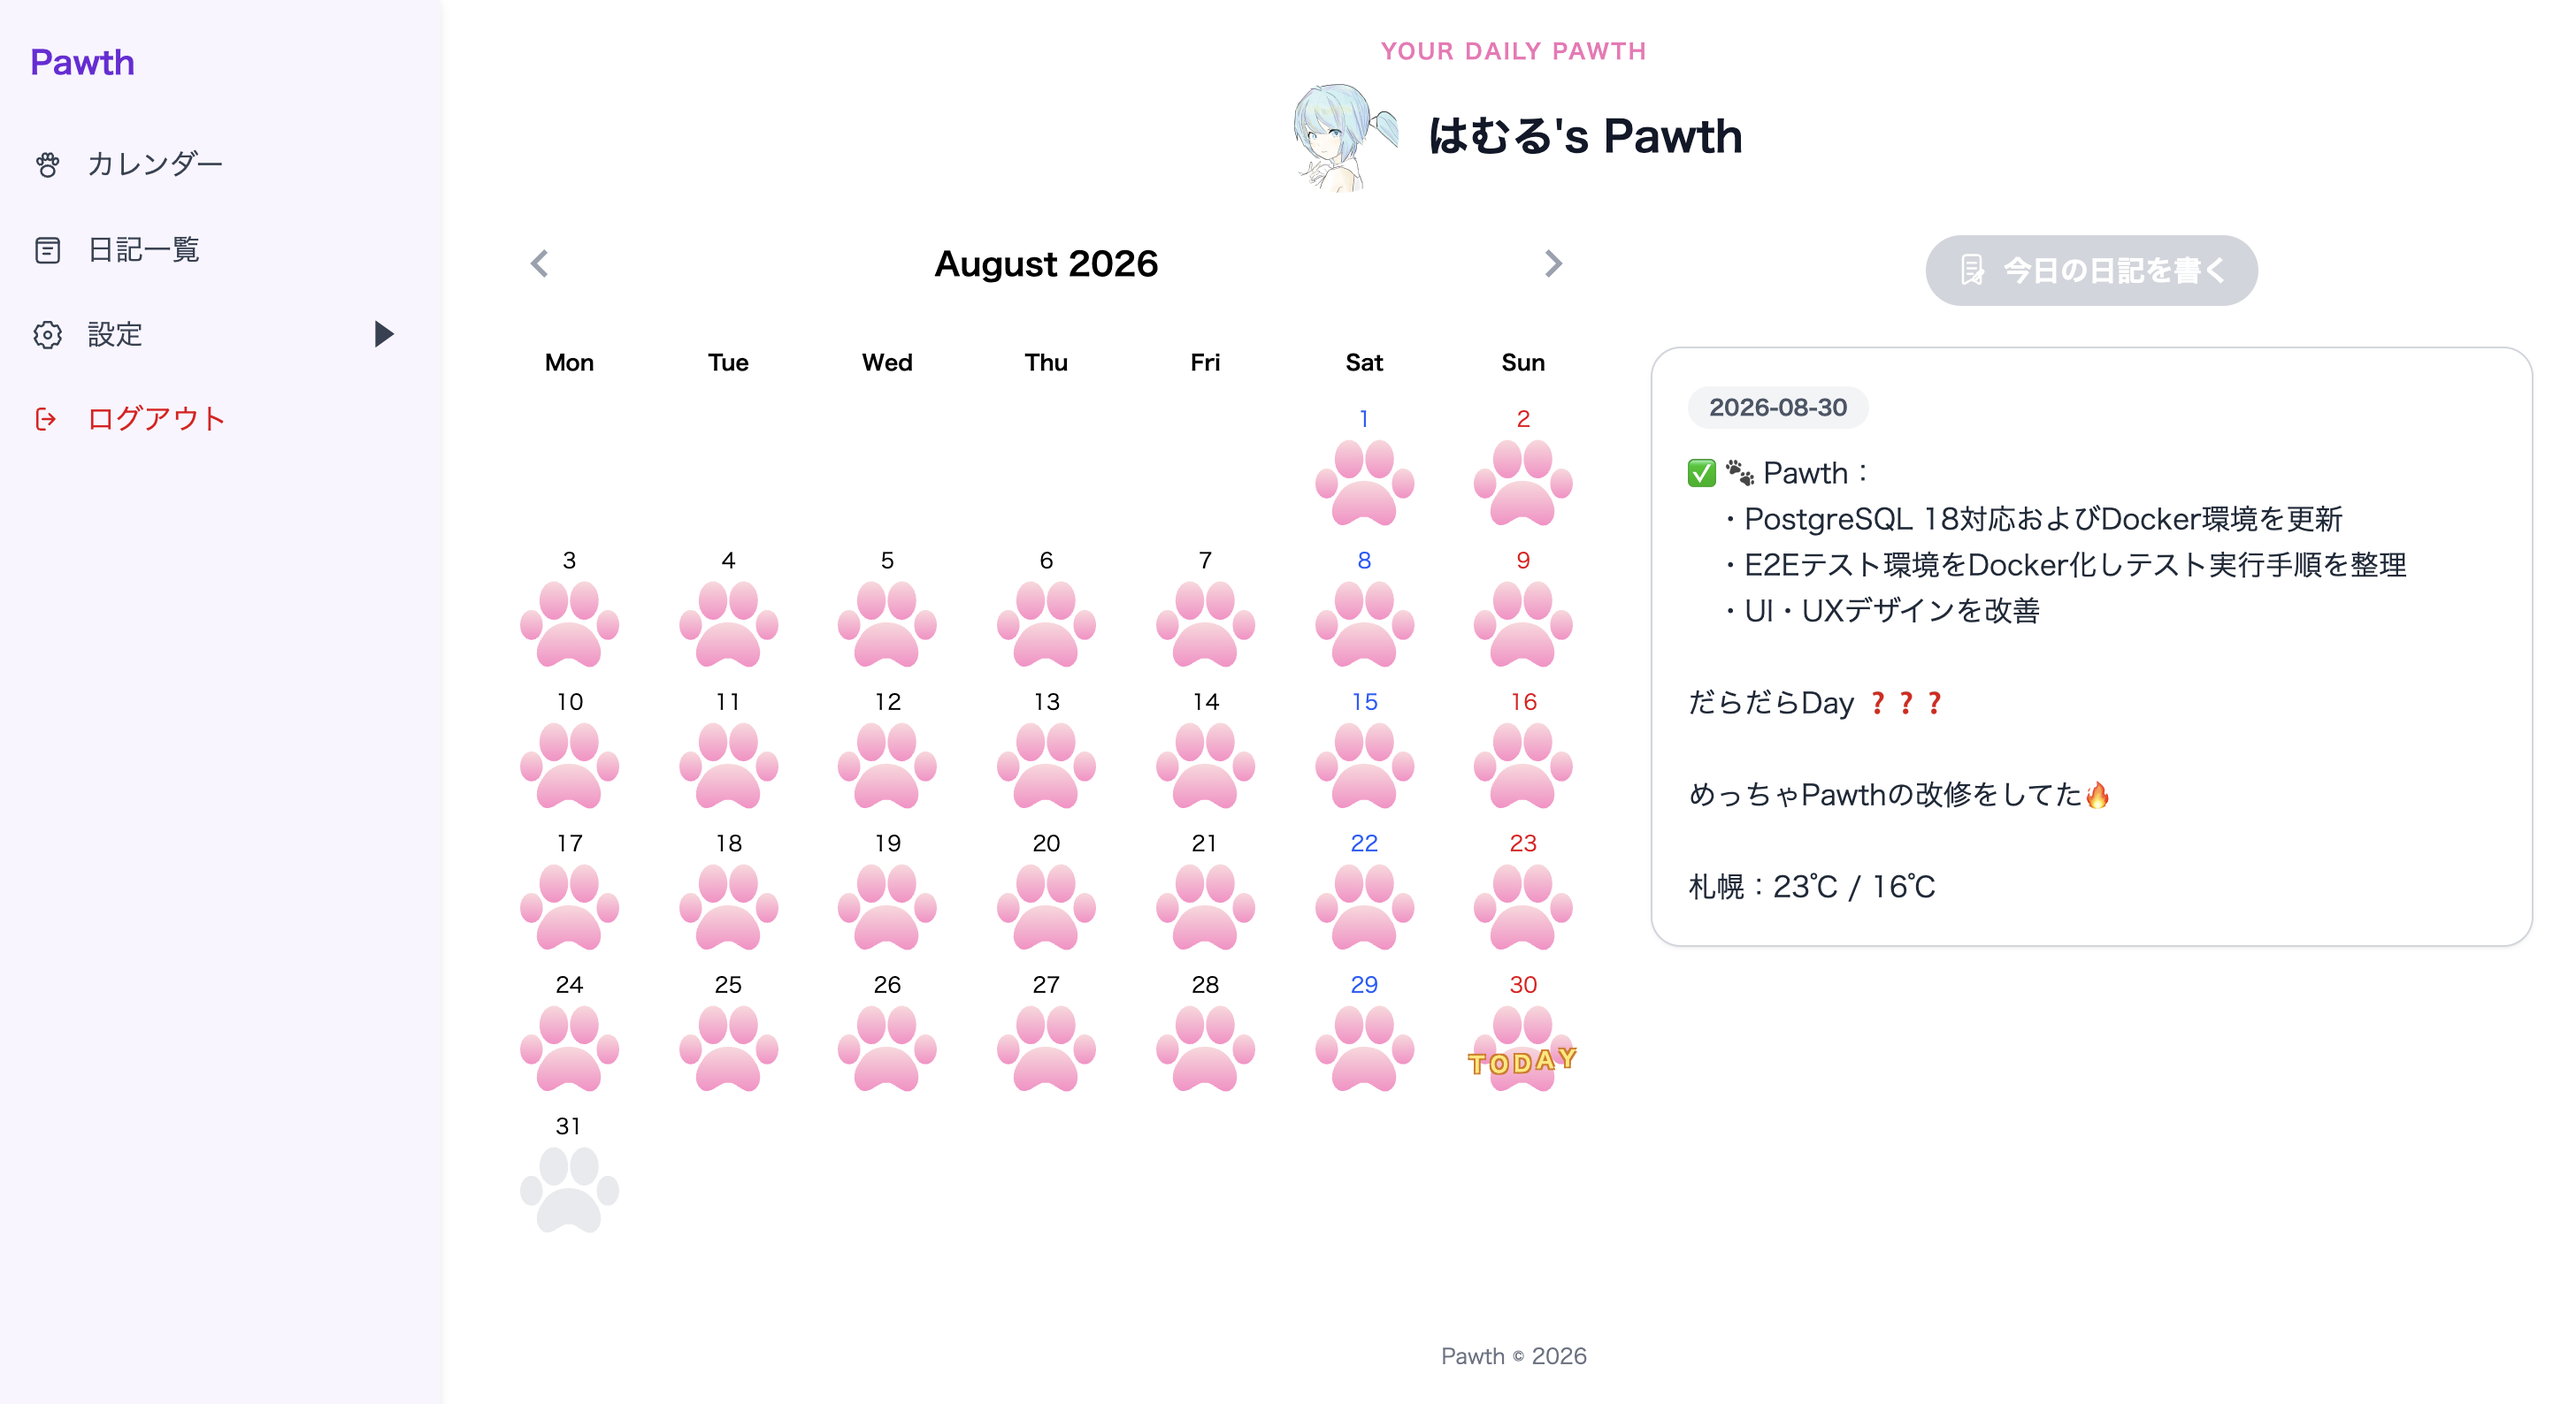
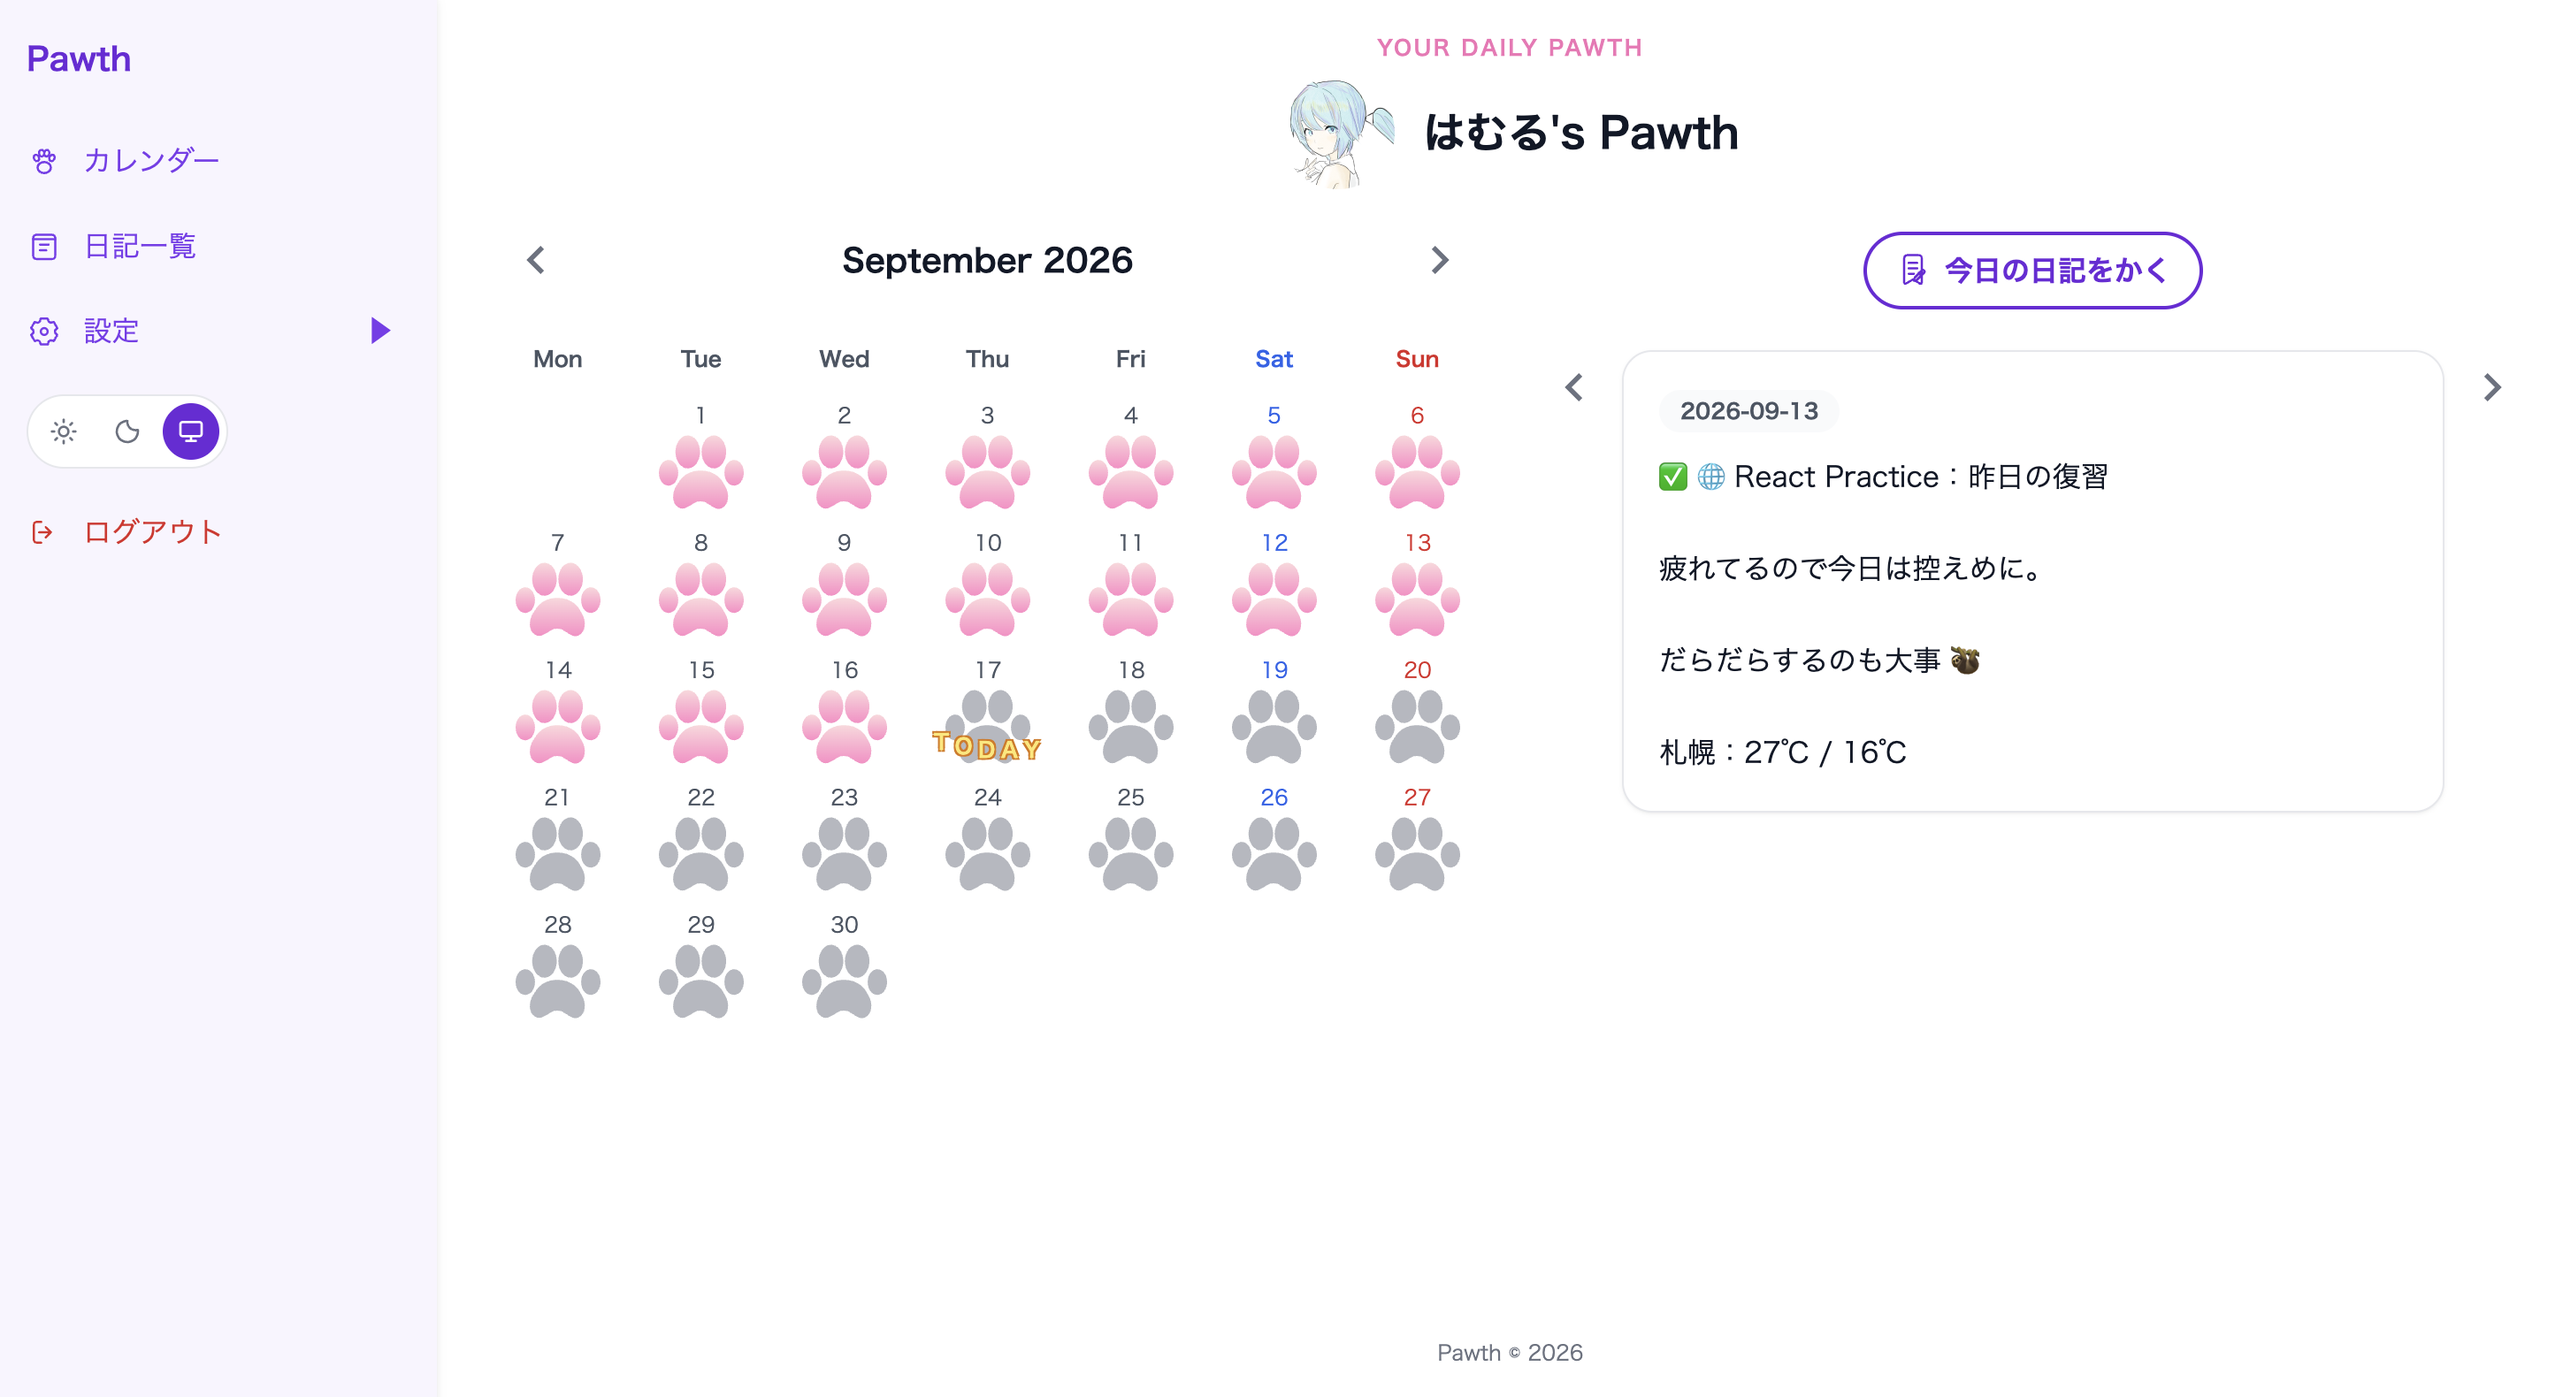
READMEを更新

diff --git a/README.md b/README.md
@@ -2,84 +2,38 @@
 
 ## 〜日々の足あとを描く〜
 
-Pawth は、1日1投稿の小さな日記アプリです。  
-日々の歩みを可視化し、その日の記録にコミットするための制約設計を大切にしています。
+Pawthは、1日1回、その日の記録を残せる小さな日記アプリです。
+
+日々の記録をカレンダーに残し、これまでの歩みを振り返ることができます。
 
 > 🌐 紹介サイト: <https://pawth-lp.hamltail.dev/>
 
-⚠ 現在、本番環境の公開は停止しています。
-
-## Current Status
-
-- コア機能の開発は完了しています。
-- 現在は保守・メンテナンスを行っています。
+> [!NOTE]
+> 現在、本番環境の運用は停止しています。
 
 ![Pawth](docs/images/pawth.webp)
 
-## 目次
+## 1日1投稿まで
 
-- [Pawth 🐾](#pawth-)
-  - [〜日々の足あとを描く〜](#日々の足あとを描く)
-  - [Current Status](#current-status)
-  - [目次](#目次)
-  - [コンセプト](#コンセプト)
-    - [1日1投稿まで](#1日1投稿まで)
-    - [SNS化しない](#sns化しない)
-  - [技術スタック](#技術スタック)
-  - [セットアップ（ローカル）](#セットアップローカル)
-  - [Dockerで開発環境を立ち上げる場合](#dockerで開発環境を立ち上げる場合)
-    - [初回ビルド \& 起動](#初回ビルド--起動)
-    - [DB のセットアップ](#db-のセットアップ)
-    - [初回ユーザー登録](#初回ユーザー登録)
-    - [ログの確認](#ログの確認)
-    - [停止](#停止)
-  - [テスト・コードチェック](#テストコードチェック)
-    - [テスト構成](#テスト構成)
-    - [テストをまとめて実行](#テストをまとめて実行)
-    - [Unit Test（RSpec）](#unit-testrspec)
-    - [E2E Test（Playwright）](#e2e-testplaywright)
-    - [E2E のデバッグ](#e2e-のデバッグ)
-  - [クラウド構成](#クラウド構成)
-  - [License](#license)
-  - [Author](#author)
-
----
-
-## コンセプト
-
-### 1日1投稿まで
-
-- 当日内は削除不可
-- 編集は最大3回まで
-- 翌日以降は削除可能（ただし編集不可）
-
-> その日の自分にコミットすること。
-
-### SNS化しない
-
-- タイムラインなし
-- フォロー / フォロワー機能なし
-- 日記は公開・非公開を選択可能
-
-> 他者との比較ではなく、内省に最適化すること。
-
----
+- 投稿は1日1回まで
+- 当日の投稿は3回まで編集できます
+- 投稿の削除は翌日以降にできます
+- 翌日以降の投稿は編集できません
 
 ## 技術スタック
 
-| Category       | Technology                      |
-| -------------- | ------------------------------- |
-| Backend        | Ruby 4.0.6, Rails 8.1.3         |
-| Database       | PostgreSQL 18                   |
-| Authentication | Devise                          |
-| Frontend       | Haml, Tailwind CSS, Turbo, GSAP |
-| Testing        | RSpec, FactoryBot               |
-| E2E Testing    | Playwright, axe-core            |
-| Infrastructure | AWS (EC2, RDS, SES)             |
+| Category       | Technology                              |
+| -------------- | --------------------------------------- |
+| Frontend       | Haml, Tailwind CSS, Turbo, GSAP         |
+| Backend        | Ruby 4.0.6, Rails 8.1.3                 |
+| Database       | PostgreSQL 18                           |
+| Authentication | Devise                                  |
+| Testing        | RSpec, FactoryBot, Playwright, axe-core |
+| Infrastructure | AWS (EC2, RDS, SES)                     |
 
----
+## セットアップ
 
-## セットアップ（ローカル）
+### ローカル環境
 
 ```bash
 git clone https://github.com/hamltail/pawth.git
@@ -90,168 +44,41 @@ rails db:setup
 bin/dev
 ```
 
-## Dockerで開発環境を立ち上げる場合
+### Docker
 
-### 初回ビルド & 起動
+開発環境をビルドして起動します。
 
 ```bash
 docker compose -f compose.dev.yml up --build -d
 ```
 
-### DB のセットアップ
+データベースをセットアップします。
 
 ```bash
-# マイグレーション
 docker compose -f compose.dev.yml exec web bin/rails db:migrate
-
-# Seed データの投入
 docker compose -f compose.dev.yml exec web bin/rails db:seed
 ```
 
-> NOTE
->
-> 新規に Docker Volume を作成した場合は、`db:migrate` と `db:seed` の実行が必要です。
-
-### 初回ユーザー登録
-
-Pawth は Devise Confirmable を利用しています。  
-Docker 開発環境では、確認メールを `letter_opener_web` を利用してブラウザから確認します。
-
-1. ユーザー登録を行う。
-2. 以下の URL にアクセスする。
-
-```text
-http://localhost:3000/letter_opener
-```
-
-3. 確認メールを開く。
-4. メール内の認証リンクをクリックする。
-5. ログインする。
-
-> NOTE
->
-> Docker 開発環境では、メールクライアントは使用しません。
-> すべての確認メールは `letter_opener_web` から確認できます。
-
-### ログの確認
-
-```bash
-docker compose -f compose.dev.yml logs -f web
-```
-
-### 停止
+停止する場合
 
 ```bash
 docker compose -f compose.dev.yml down
 ```
 
-## テスト・コードチェック
+### 開発環境でのメール確認
 
-テスト・Lint・フォーマットチェックは、Pawth のルートディレクトリから実行できます。
+PawthはDevise Confirmableを利用しています。
 
-### テスト構成
-
-開発用RailsとE2E用Railsは、同じPawthのソースコードと `Dockerfile.dev` を使用します。  
-実行環境とデータベースを分けることで、E2Eテストが開発用データへ影響しない構成にしています。
+Docker開発環境では、確認メールを`letter_opener_web`から確認できます。
 
 ```text
-Development
-
-web
-├─ Rails development :3000
-└─ pawth_development
-        │
-        ▼
-       db
-   PostgreSQL 18
-
-
-E2E
-
-e2e
-Playwright
-   │
-   ▼
-web-e2e
-├─ Rails test :3001
-└─ pawth_test
-        │
-        ▼
-       db
-   PostgreSQL 18
+http://localhost:3000/letter_opener
 ```
 
-`web` と `web-e2e` は別のアプリケーションではありません。  
-同じPawthを、それぞれ `development` 環境と `test` 環境で起動しています。
+## 本番構成（停止中）
 
-`e2e` はPlaywright専用の実行環境で、`web-e2e:3001` に対してブラウザテストを実行します。
-
-本番環境では `web-e2e` と `e2e` は使用しません。
-
-### テストをまとめて実行
-
-```bash
-npm test
-```
-
-以下のチェックを順番に実行します。
-
-1. Prettier
-2. RuboCop
-3. ESLint
-4. RSpec
-5. Playwright
-
-Playwrightの通常E2EテストはDocker内で実行されます。
-
-### Unit Test（RSpec）
-
-```bash
-npm run test:unit
-```
-
-### E2E Test（Playwright）
-
-通常のE2EテストはDocker内でヘッドレス実行します。
-
-```bash
-npm run test:e2e
-```
-
-`Dockerfile.e2e` からPlaywright用イメージをビルドし、`web-e2e` に対してテストを実行します。
-
-### E2E のデバッグ
-
-通常のE2EテストはDockerで実行します。
-画面表示やPlaywright Inspector、Trace Viewerを利用する場合は、現在の構成ではホスト環境でPlaywrightを実行します。
-初回のみ、E2E用の依存パッケージとブラウザをインストールします。
-
-```bash
-npm run e2e:install
-npm run e2e:install:browsers
-```
-
-画面を表示して実行:
-
-```bash
-npm run test:e2e:headed
-```
-
-Playwright Inspector を使用してデバッグ:
-
-```bash
-npm run test:e2e:debug
-```
-
-直近のテストトレースを開く:
-
-```bash
-npm run test:e2e:trace
-```
-
-## クラウド構成
-
-AWS構成（EC2 / RDS / SES）
+PawthはAWS上で以下の構成で運用していました。  
+現在、本番環境の運用は停止しています。
 
 ```mermaid
 flowchart TD
